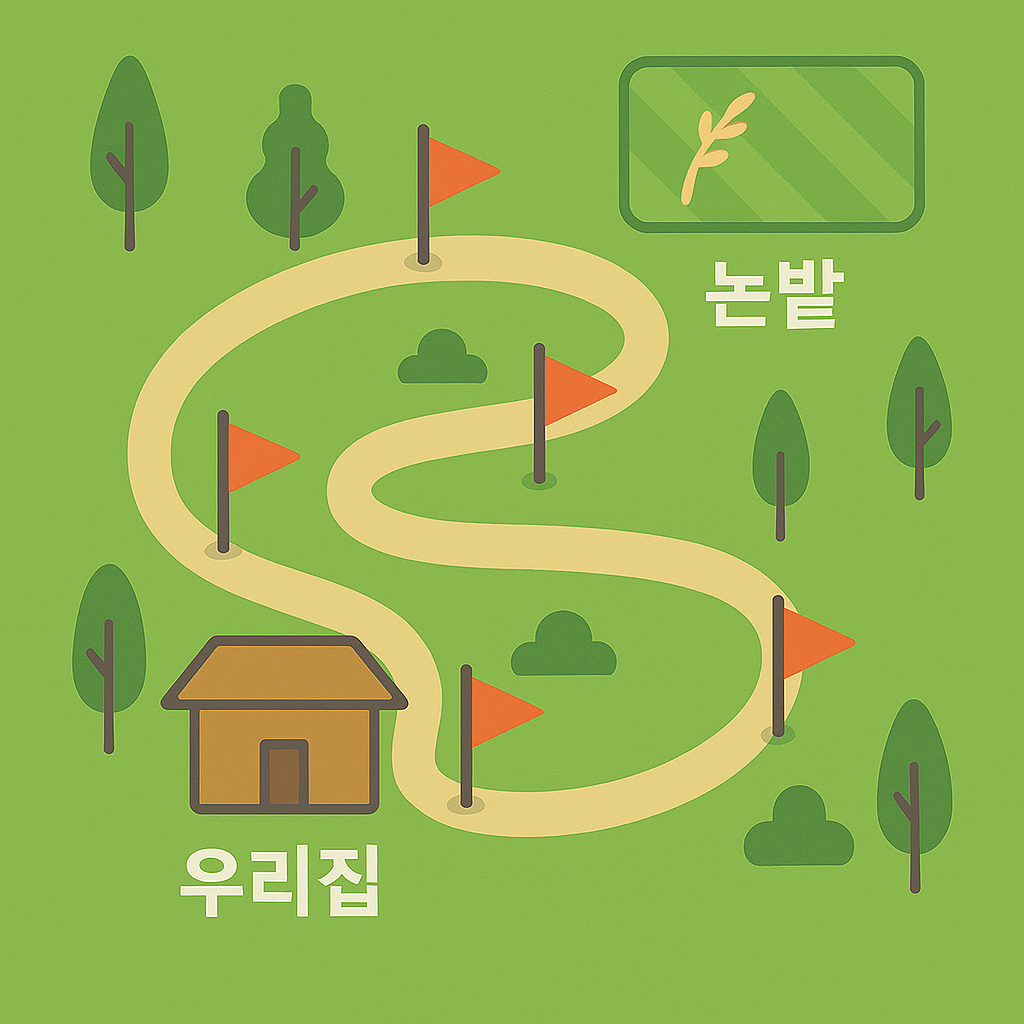
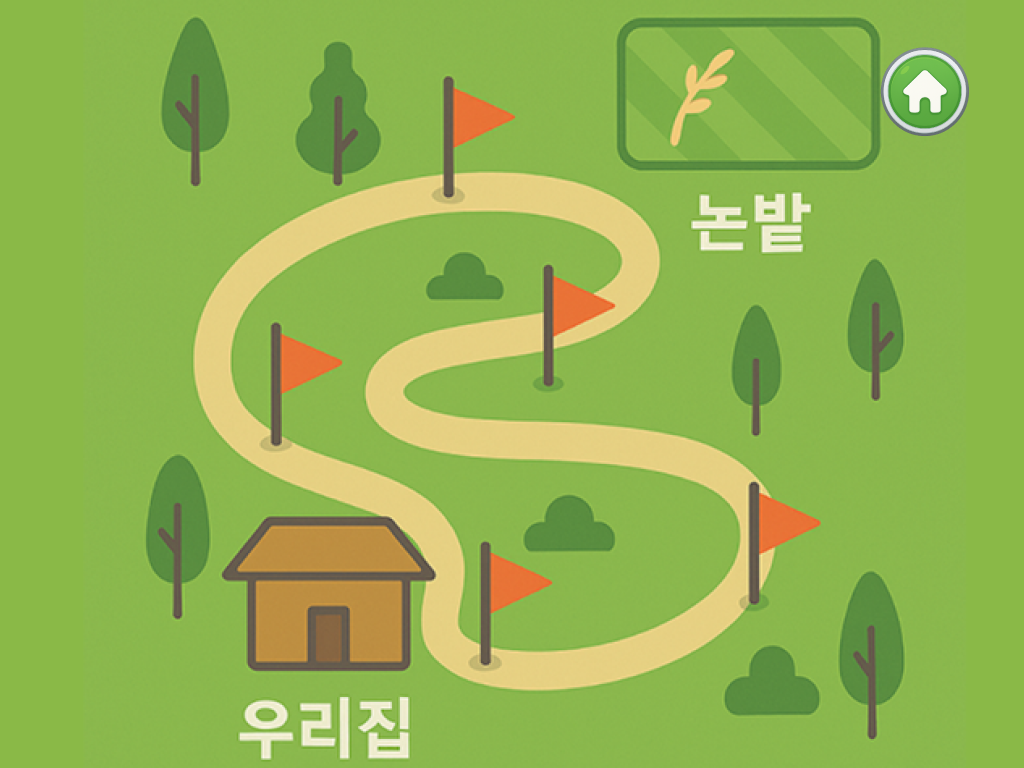
🚧 Mission1 Detail 수정 중

diff --git a/src/pages/prologue/ProloguePage.tsx b/src/pages/prologue/ProloguePage.tsx
@@ -6,12 +6,10 @@ import { useNavigate, useLocation } from 'react-router-dom';
 const scenario1FullMap = '/assets/images/scenario1_full_map.png';
 const starCharacter = '/assets/images/star_character.png';
 const departButton = '/assets/images/depart_button.png';
-const grandson = '/assets/images/grandson.png';
-const granddaughter = '/assets/images/granddaughter.png';
+const grandchildren = '/assets/images/grandchildren.png';
 const homeButton = '/assets/images/home_button.png';
-// const BackButton = '/assets/images/back_button.png';
-import BackButton from '../../components/ui/BackButton'
-import Background from '../../components/ui/Background';
+const nextButton = '/assets/images/next_button.png';
+import BackButton from '../../components/ui/BackButton';
 
 // 프롤로그 단계 정의
 type PrologueStep = 'mission' | 'map' | 'encouragement';
@@ -21,39 +19,40 @@ const ProloguePage = () => {
   const location = useLocation();
   const [step, setStep] = useState<PrologueStep>('mission');
   const [scenarioId, setScenarioId] = useState<string | null>(null);
+  const [showMessage, setShowMessage] = useState(false);
   
   // URL 쿼리 파라미터에서 시나리오 ID 가져오기
   useEffect(() => {
     const searchParams = new URLSearchParams(location.search);
     const id = searchParams.get('scenario');
     setScenarioId(id);
-  }, [location]);
-
-  // 각 단계별 자동 진행 (고령 사용자를 위해 속도 조절)
-  useEffect(() => {
-    if (step === 'mission') {
+    
+    // 각 단계별로 2초 후 메시지 표시
+    if (step === 'map') {
       const timer = setTimeout(() => {
-        setStep('map');
-      }, 4000); // 4초 후 다음 단계로
-      return () => clearTimeout(timer);
-    } else if (step === 'map') {
-      const timer = setTimeout(() => {
-        setStep('encouragement');
-      }, 4000); // 4초 후 다음 단계로
+        setShowMessage(true);
+      }, 2000);
+      
       return () => clearTimeout(timer);
     }
-  }, [step]);
+  }, [location, step]);
+
+  // 다음 단계로 이동 핸들러
+  const handleNextStep = () => {
+    setShowMessage(false); // 다음 단계로 넘어갈 때 메시지 초기화
+    if (step === 'mission') {
+      setStep('map');
+    } else if (step === 'map') {
+      setStep('encouragement');
+    }
+  };
 
   // 홈으로 이동 핸들러
   const handleGoHome = () => {
     navigate('/');
   };
 
-  // 뒤로 가기 핸들러
-  const handleGoBack = () => {
-    navigate(-1);
-  };
-
+  // 주행 준비 페이지로 이동
   const handleDepartClick = () => {
     console.log("ProloguePage - 출발하기 버튼 클릭: 주행 준비 페이지로 이동", { scenarioId });
     navigate(`/driving-prep?scenario=${scenarioId}&nextQuest=1`);
@@ -61,23 +60,38 @@ const ProloguePage = () => {
 
   // 미션 소개 컴포넌트
   const MissionIntro = () => (
-    <div className="absolute inset-0 flex items-center justify-center">
-      <Background/>
-      <div className="w-full h-full flex flex-col items-center justify-center z-10">
+    <div className="absolute inset-0 flex flex-col items-center justify-center">
+      {/* 배경 이미지 직접 추가 */}
+      <img
+        src="/assets/images/background.png" // 사용할 배경 이미지 경로
+        alt="미션 배경"
+        className="absolute inset-0 w-full h-full object-cover z-0" // 배경으로 깔리도록 스타일링
+      />
+      <div className="w-full h-full flex flex-col items-center justify-center z-10 relative"> {/* 콘텐츠가 배경 위에 오도록 z-10 및 relative 추가 */}
         <h1 className="text-4xl font-bold text-green-700 mb-12">[ 논밭 작업 하는 날 ]</h1>
-          <div className="relative bg-green-600 border-8 border-green-700 rounded-2xl p-10 w-3/4 h- mx-w-5xl">
-            <p className="text-3xl text-white text-center leading-relaxed">
-              이륜차를 타고 논밭에 갔다가<br />
-              집으로 안전하게 돌아오세요
-            </p>
-            
-            {/* 캐릭터가 박스와 겹치도록 배치 */}
-            <img 
-              src={starCharacter}
-              alt="별별이 캐릭터" 
-              className="absolute -bottom-24 -left-24 w-48 h-auto"
-            />
-          </div>
+        <div className="relative bg-green-500 bg-opacity-90 border-8 border-green-600 rounded-2xl p-10 w-3/4 max-w-xl">
+          <p className="text-3xl text-center leading-relaxed">
+            이륜차를 타고 논밭에 갔다가<br />
+            집으로 안전하게 돌아오세요
+          </p>
+          
+          {/* 별별이 캐릭터를 박스 모서리에 오버랩하여 배치 */}
+          <img 
+            src={starCharacter}
+            alt="별별이 캐릭터" 
+            className="absolute -bottom-14 -left-14 w-36 h-auto z-20"
+          />
+        </div>
+        
+        {/* 다음 버튼 추가 */}
+        <div className="mt-20">
+          <img
+            src={nextButton}
+            alt="다음"
+            onClick={handleNextStep}
+            className="w-48 cursor-pointer hover:scale-105 transition-transform"
+          />
+        </div>
       </div>
     </div>
   );
@@ -85,7 +99,7 @@ const ProloguePage = () => {
   // 약도 컴포넌트
   const MapDisplay = () => (
     <div className="absolute inset-0">
-      {/* 전체 배경으로 지도 사용 */}
+      {/* 전체 배경으로 지도 사용 - object-cover로 변경하여 전체화면 꽉 채우기 */}
       <div className="w-full h-full relative">
         <img 
           src={scenario1FullMap} 
@@ -93,20 +107,42 @@ const ProloguePage = () => {
           className="w-full h-full object-cover"
         />
         
-        {/* 말풍선 형태로 메시지 표시 */}
-        <div className="absolute bottom-12 right-12 bg-green-600 rounded-xl p-4 max-w-md">
-          <div className="flex items-center">
-            <img 
-              src={starCharacter}
-              alt="별별이 캐릭터" 
-              className="w-16 h-16 mr-3"
-            />
-            <p className="text-white text-xl">
-              이륜차 운전 중 여러 상황이 벌어져요!<br />
-              안전 운전에 유의하여 문제를 해결해보아요
-            </p>
-          </div>
-        </div>
+        {/* 2초 후 메시지와 다음 버튼 함께 표시 */}
+        {showMessage && (
+          <>
+            <div className="absolute top-1/2 left-1/2 transform -translate-x-1/2 -translate-y-1/2 flex items-center">
+              <div className="relative">
+                {/* 말풍선 형태로 메시지 표시 - 흰색 배경, 녹색 테두리 */}
+                <div className="bg-white bg-opacity-90 border-8 border-green-600 rounded-xl p-6 max-w-xl">
+                  <div className="flex items-center">
+                    {/* 별별이 캐릭터 박스 모서리에 위치 */}
+                    <div className="relative w-full">
+                      <p className="text-2xl text-black text-center">
+                        이륜차 운전 중 여러 상황이 벌어져요!<br />
+                        안전 운전에 유의하여 문제를 해결해보아요
+                      </p>
+                      <img 
+                        src={starCharacter}
+                        alt="별별이 캐릭터" 
+                        className="absolute -bottom-14 -left-10 w-24 h-24"
+                      />
+                    </div>
+                  </div>
+                </div>
+              </div>
+            </div>
+            
+            {/* 다음 버튼 - 메시지와 함께 표시 */}
+            <div className="absolute bottom-12 left-1/2 transform -translate-x-1/2">
+              <img
+                src={nextButton}
+                alt="다음"
+                onClick={handleNextStep}
+                className="w-48 cursor-pointer hover:scale-105 transition-transform z-30"
+              />
+            </div>
+          </>
+        )}
       </div>
     </div>
   );
@@ -115,24 +151,23 @@ const ProloguePage = () => {
   const EncouragementMessage = () => (
     <div className="absolute inset-0 flex flex-col items-center justify-center bg-[#FFFDE7]">
       <div className="w-full h-full flex flex-col items-center justify-center relative">
-        {/* 배경에 지도 흐리게 표시 */}
+        {/* 배경에 지도 흐리게 표시 - object-contain 유지 */}
         <div className="absolute inset-0 opacity-20">
           <img 
             src={scenario1FullMap} 
             alt="배경 지도" 
-            className="w-full h-full object-cover"
+            className="w-full h-full object-contain"
           />
         </div>
         
         <div className="relative z-10 flex flex-col items-center">
-          {/* 손자/손녀 이미지 */}
+          {/* 손자손녀 이미지 - grandchildren.png 사용 */}
           <div className="flex items-center justify-center mb-4">
-            <img src={grandson} alt="손자" className="w-24 h-auto" />
-            <img src={granddaughter} alt="손녀" className="w-24 h-auto ml-3" />
+            <img src={grandchildren} alt="손자손녀" className="w-48 h-auto" />
           </div>
           
-          {/* 메시지 박스 */}
-          <div className="bg-white border-4 border-green-600 rounded-2xl p-5 max-w-lg mb-8">
+          {/* 메시지 박스 - 흰색 배경, 녹색 테두리 */}
+          <div className="bg-white border-8 border-green-600 rounded-2xl p-5 max-w-lg mb-8">
             <p className="text-2xl font-bold text-center text-green-700">
               무엇보다 할아버지가 제일 소중해요!<br />
               조심히 다녀오세요!
@@ -161,11 +196,11 @@ const ProloguePage = () => {
       
       {/* 홈 버튼 */}
       <img
-      src={homeButton}
-      alt="홈으로"
-      onClick={handleGoHome}
-      className="absolute top-4 right-4 z-20 w-16 h-16 cursor-pointer active:scale-90 transition-transform duration-150"
-    />
+        src={homeButton}
+        alt="홈으로"
+        onClick={handleGoHome}
+        className="absolute top-4 right-4 z-20 w-16 h-16 cursor-pointer active:scale-90 transition-transform duration-150"
+      />
     </>
   );
 

diff --git a/src/pages/quest/MemoryCardQuest.tsx b/src/pages/quest/MemoryCardQuest.tsx
@@ -18,6 +18,7 @@ const giftBox = '/assets/images/gift.png';
 const giftOpenHelmet = '/assets/images/gift_open.png';
 const grandchildren = '/assets/images/grandchildren.png';
 const helmet = '/assets/images/helmet.png'
+const NextButton = 'assets/images/next_button.png'
 
 // 카드 타입 정의
 interface Card {
@@ -31,7 +32,8 @@ interface Card {
 // 게임 단계 정의
 type GamePhase = 
   | 'intro1'             // 시작 화면
-  | 'intro2'             // 게임 설명
+  | 'intro2'             // 손자손녀 메시지 - 선물 소개
+  | 'intro3'             // 게임 설명
   | 'showCards'          // 카드 미리보기
   | 'game'               // 카드 게임 진행
   | 'foundMatch'         // 카드 쌍 찾음
@@ -108,6 +110,8 @@ const MemoryCardQuest = () => {
     if (gamePhase === 'intro1') {
       setGamePhase('intro2');
     } else if (gamePhase === 'intro2') {
+      setGamePhase('intro3');
+    } else if (gamePhase === 'intro3') {
       setGamePhase('showCards');
     } else if (gamePhase === 'foundMatch') {
       setGamePhase('showGift');
@@ -226,24 +230,66 @@ const MemoryCardQuest = () => {
           className="absolute inset-0 flex flex-col items-center justify-center cursor-pointer"
           onClick={handleNextPhase}
         >
-          <div className="bg-green-600 bg-opacity-90 py-4 px-10 rounded-lg mb-8">
-            <h1 className="text-4xl font-bold text-white">주행 준비하기</h1>
+          <div className="mt-24 text-center">
+            <h1 className="text-8xl font-bold">
+              <span className="inline-block text-green-600 px-1 rounded [paint-order:stroke] [-webkit-text-stroke:10px_white] [text-stroke:2px_white]">주</span>
+              <span className="inline-block text-green-600 px-1 rounded [paint-order:stroke] [-webkit-text-stroke:10px_white] [text-stroke:2px_white]">행</span>
+              {' '} {/* Space */}
+              <span className="inline-block text-green-600 px-1 rounded [paint-order:stroke] [-webkit-text-stroke:10px_white] [text-stroke:2px_white]">준</span>
+              <span className="inline-block text-green-600 px-1 rounded [paint-order:stroke] [-webkit-text-stroke:10px_white] [text-stroke:2px_white]">비</span>
+              <span className="inline-block text-green-600 px-1 rounded [paint-order:stroke] [-webkit-text-stroke:10px_white] [text-stroke:2px_white]">하</span>
+              <span className="inline-block text-green-600 px-1 rounded [paint-order:stroke] [-webkit-text-stroke:10px_white] [text-stroke:2px_white]">기</span>
+            </h1>
           </div>
           
-          <img 
-            src={gameCharacter} 
-            alt="캐릭터" 
-            className="w-80 h-auto mb-8"
+          <img
+            src={gameCharacter}
+            alt="캐릭터"
+            className="w-80 h-auto mt-6" /* Added mt-8 to move character down */
           />
         </div>
       )}
 
-      {/* 두 번째 단계 - 게임 설명 화면 (첨부 이미지처럼 구성) */}
+      {/* intro2 */}
       {gamePhase === 'intro2' && (
+        <div className="absolute inset-0 flex items-center justify-center">
+          <div className="absolute inset-0 bg-white bg-opacity-30 backdrop-blur-sm"></div>
+          <div className="relative z-10 max-w-xl mx-auto mt-64">
+            <div className="bg-white border-4 border-green-600 rounded-xl p-6 shadow-lg">
+              <p className="text-2xl font-bold text-black text-center mb-4">
+                할아버지,<br />
+                운전하시기 전에 중요한 선물이 있어요!
+              </p>
+            </div>
+            <img
+              src={grandchildren}
+              alt="손자손녀"
+              className="absolute -top-36 left-1/2 transform -translate-x-1/2 w-48 h-auto z-20"
+            />
+            <div className="flex justify-center">
+              <img
+                src={NextButton}
+                alt="다음"
+                onClick={handleNextPhase}
+                className="w-1/2 h-auto cursor-pointer hover:scale-105 transition-transform"
+              />
+            </div>
+          </div>
+        </div>
+      )}
+
+      {/* 두 번째 단계 - 게임 설명 화면 (첨부 이미지처럼 구성) */}
+      {gamePhase === 'intro3' && (
+        
         <div 
           className="absolute inset-0 flex flex-col items-center justify-center cursor-pointer"
           onClick={handleNextPhase}
         >
+
+        <div className="absolute inset-0 bg-white bg-opacity-30 backdrop-blur-sm"></div>
+
+          <div className="relative z-10">
+
           {/* 타이틀 */}
           <h2 className="text-4xl font-bold text-green-600 mb-8">
             손주가 준비한 선물 찾기
@@ -260,6 +306,16 @@ const MemoryCardQuest = () => {
               힌트: 이 선물은 머리를 보호해줘요
             </p>
           </div>
+
+          <div className="flex justify-center">
+              <img
+                src={NextButton}
+                alt="다음"
+                onClick={handleNextPhase}
+                className="w-1/3 h-auto cursor-pointer hover:scale-105 transition-transform"
+              />
+              </div>
+            </div>
         </div>
       )}
 
